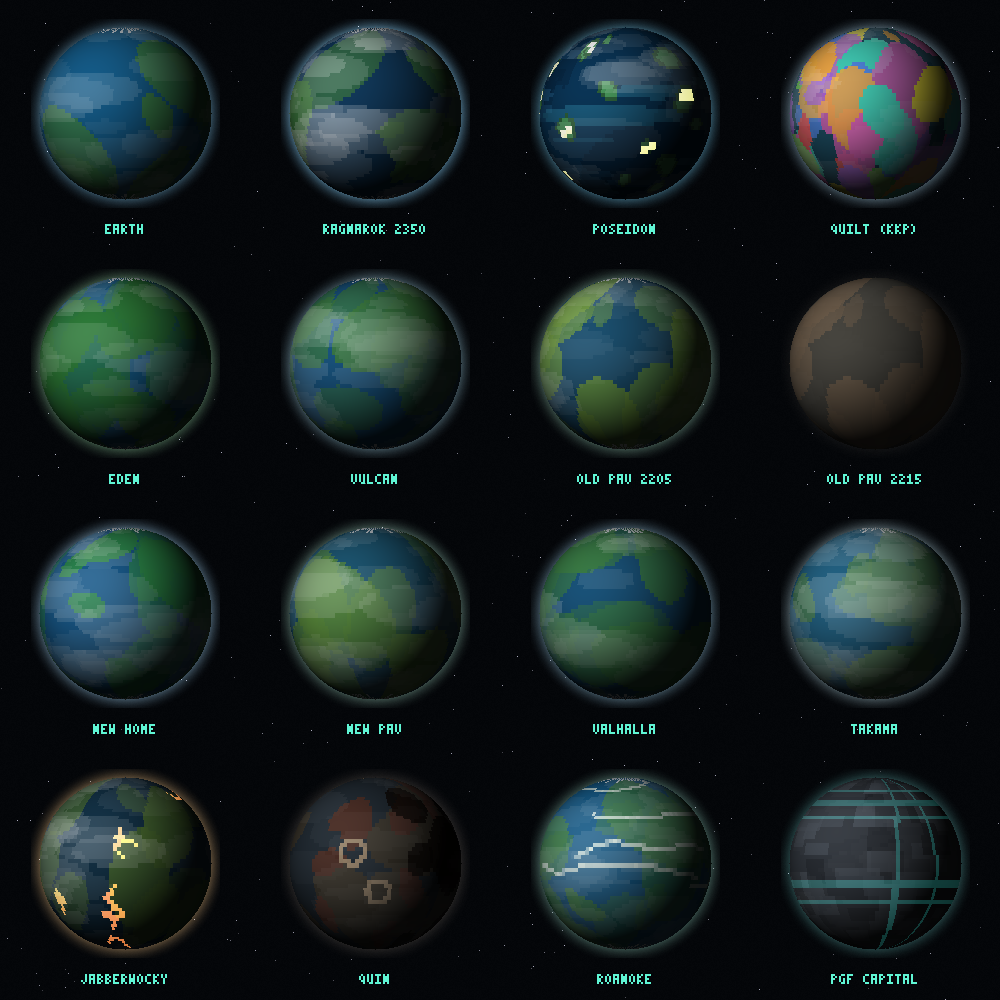
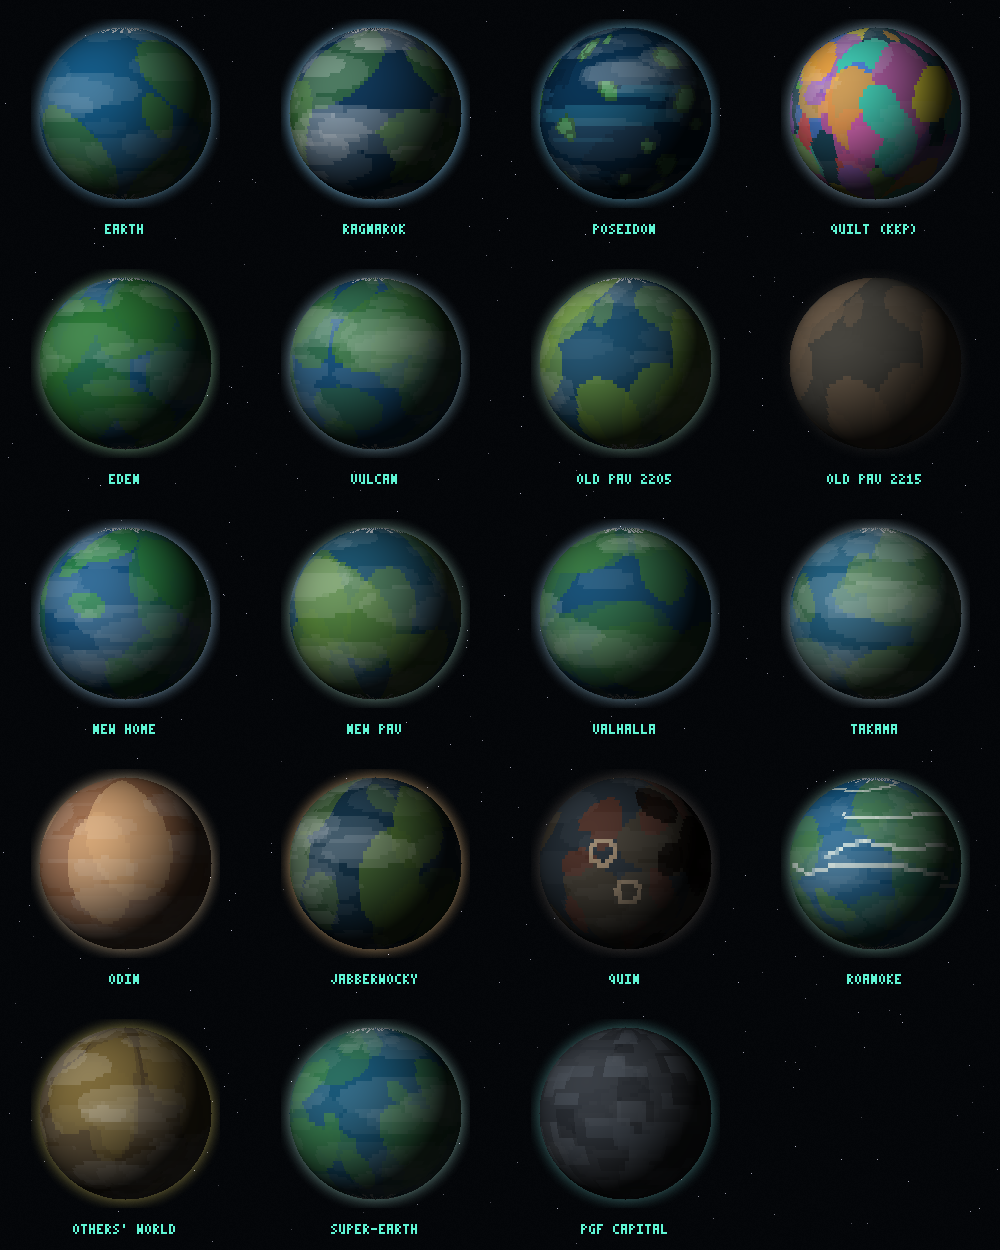
Refresh preview collage to 19 worlds (add Odin, Others' homeworld, Kappa Ceti super-Earth); update README counts

diff --git a/README.md b/README.md
@@ -7,9 +7,9 @@ An interactive 3D star map of the **Bobiverse** book series by Dennis E. Taylor 
 ## Features
 
 - **3D tactical starmap** (Three.js) with glow-sprite stars, a light-year grid centred on Sol, projected labels, and a selection reticle
-- **24 systems, 40+ planets & moons, 29 routes** — including book 5 (Jabberwocky, Roanoke, the PGF Capital near Sagittarius A*)
+- **24 systems, 45+ planets & moons, 29 routes** — including book 5 (Jabberwocky, Roanoke, the PGF Capital near Sagittarius A*)
 - **Timeline 2133–2350** with autoplay: watch the Bobnet expand, the Others' crimson routes creep out of GL 877, Old Pav get harvested in 2210, and GL 877 go **nova in 2257**
-- **Living worlds**: 16 special worlds with bespoke surfaces, from terraforming Ragnarok and the lit-up colony worlds to war-scarred Quin and Old Pav, plus the Others' partial Dyson sphere that builds and dies on the timeline
+- **Living worlds**: 19 special worlds with bespoke surfaces, from terraforming Ragnarok and the lit-up colony worlds to war-scarred Quin, the Others' contaminated homeworld, and gas giants like Odin, plus the Others' partial Dyson sphere that builds and dies on the timeline
 - **Click any planet** to fly to it and follow it along its orbit, with a camera-side fill light so the visible hemisphere is always lit
 - Search across systems, planets, and Bobs (diacritic-insensitive); telemetry sidebar with mission logs and jump-to navigation
 
